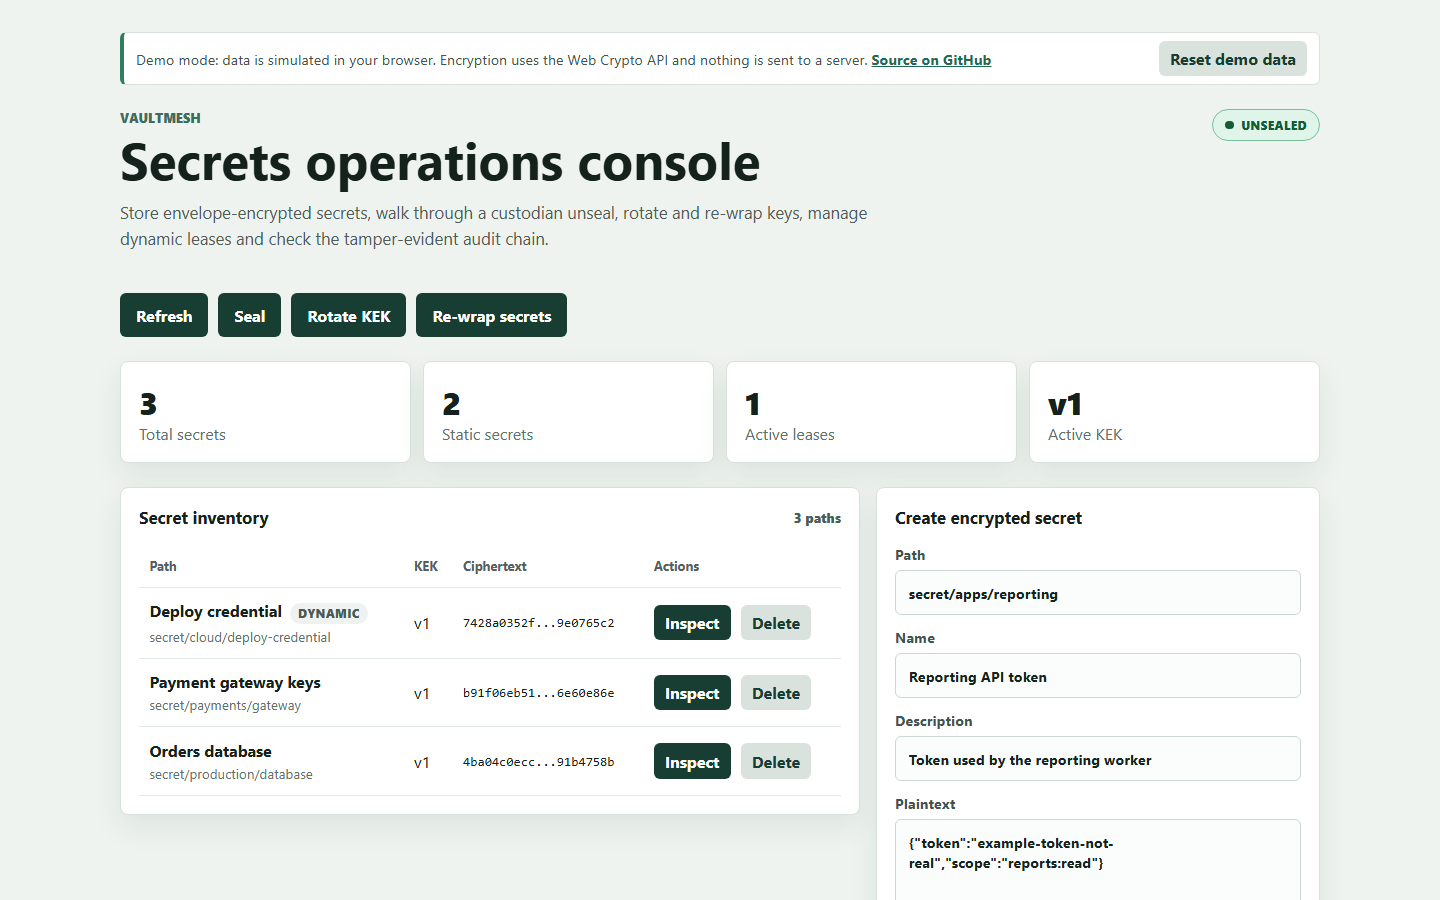
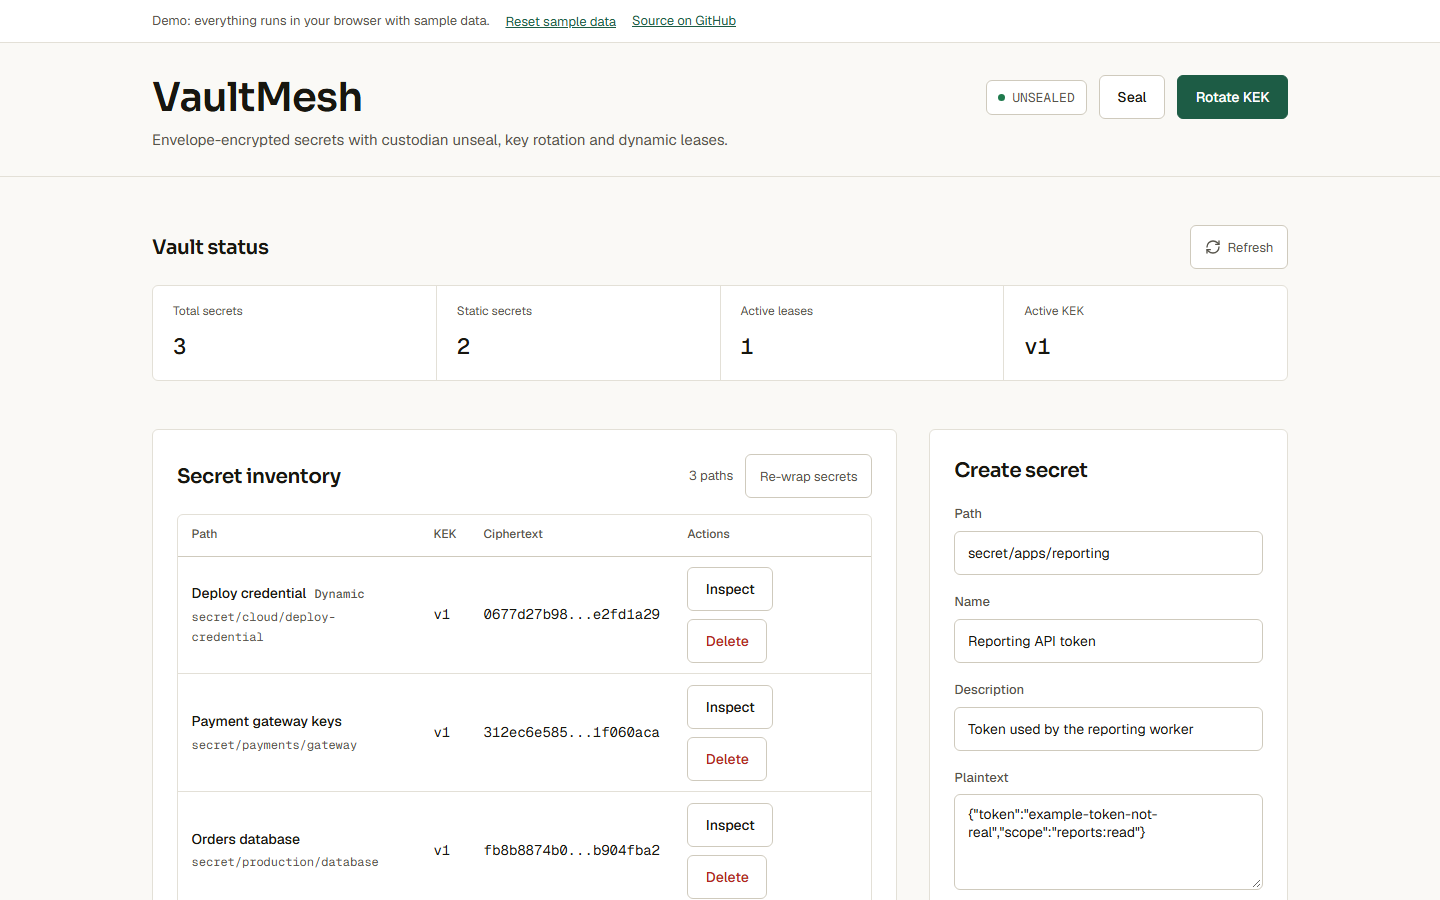
Refresh README screenshots and add a changelog entry for the redesign

diff --git a/README.md b/README.md
@@ -12,9 +12,9 @@ The demo runs entirely in your browser: the same validation, Shamir, lease, audi
 
 ## Screenshot
 
-![Secrets operations console with the unsealed vault, secret inventory and metrics](docs/screenshots/01-dashboard.png)
+![VaultMesh dashboard with the unsealed vault, a stats strip and the secret inventory table](docs/screenshots/01-dashboard.png)
 
-More screenshots: [inspecting a decrypted secret](docs/screenshots/02-inspect-secret.png), [custodian unseal and dynamic leases](docs/screenshots/03-unseal-and-leases.png).
+More screenshots: [inspecting a decrypted secret](docs/screenshots/02-inspect-secret.png), [custodian unseal and dynamic leases](docs/screenshots/03-unseal-and-leases.png), [mobile layout](docs/screenshots/04-mobile.png).
 
 ## Features
 
@@ -23,7 +23,7 @@ More screenshots: [inspecting a decrypted secret](docs/screenshots/02-inspect-se
 - **Key rotation and re-wrap**: rotate to a new KEK, then re-wrap existing secrets' DEKs onto it without ever decrypting the stored payload.
 - **Dynamic leases**: a dynamic secret issues a time-limited lease on read, renewable up to 5 times and capped by a max TTL. Expired leases are swept automatically, and reading again issues a fresh lease.
 - **Tamper-evident audit ledger**: every action is chained with a SHA-256 hash over the entry before it, and a verification endpoint reports exactly where a chain breaks.
-- **React 19 dashboard**: live vault status, a secret inventory with a decrypt-and-inspect drawer, key version history, lease countdowns, and the audit ledger, polling every 5 seconds.
+- **React 19 dashboard**: a stats strip for the vault totals, a secret inventory table with a decrypt-and-inspect drawer, custodian unseal with a share checklist, key version history, lease countdowns, and the audit ledger, polling every 5 seconds.
 - **GitHub Pages demo mode**: no backend required; data is seeded and kept in your browser's localStorage, with a "Reset demo data" control.
 
 ## Getting started

diff --git a/CHANGELOG.md b/CHANGELOG.md
@@ -4,6 +4,11 @@ All notable changes to this project are documented in this file.
 
 The format is based on [Keep a Changelog](https://keepachangelog.com/en/1.1.0/).
 
+## [Unreleased]
+
+### Changed
+- Redesigned the dashboard on the shared design tokens: self-hosted Sora, Geist and Geist Mono replace Inter and the system monospace stack, every panel and table lost its drop shadow, and the page runs on one accent color instead of fourteen text colors. The four vault totals are now one stats strip instead of four separate tiles, and the header is a plain wordmark with a one-sentence subtitle and two actions (Seal, Rotate KEK); Refresh and Re-wrap secrets moved into the sections they affect. Custodian shares, dynamic leases, the audit ledger and key versions render as dense lists with mono values, and every button, input and checkbox now meets the 44px minimum control size.
+
 ## [1.0.0] - 2026-09-15
 
 ### Added
